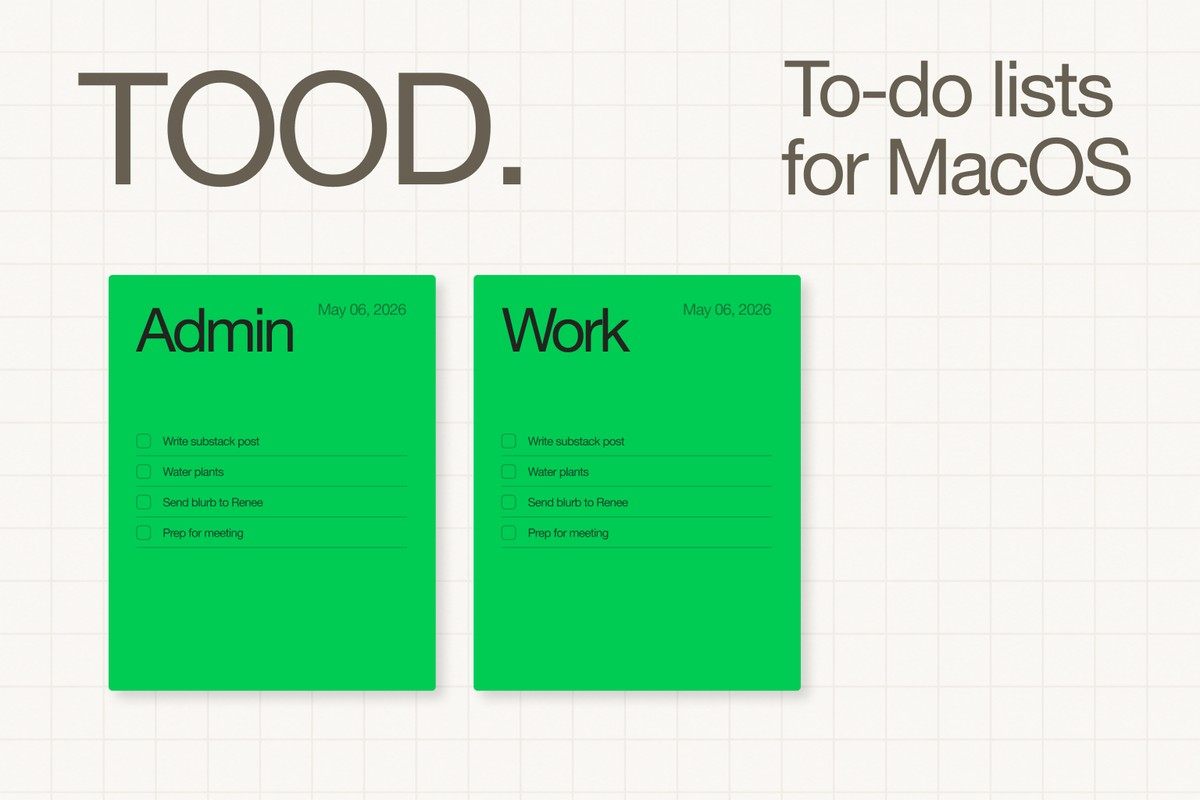
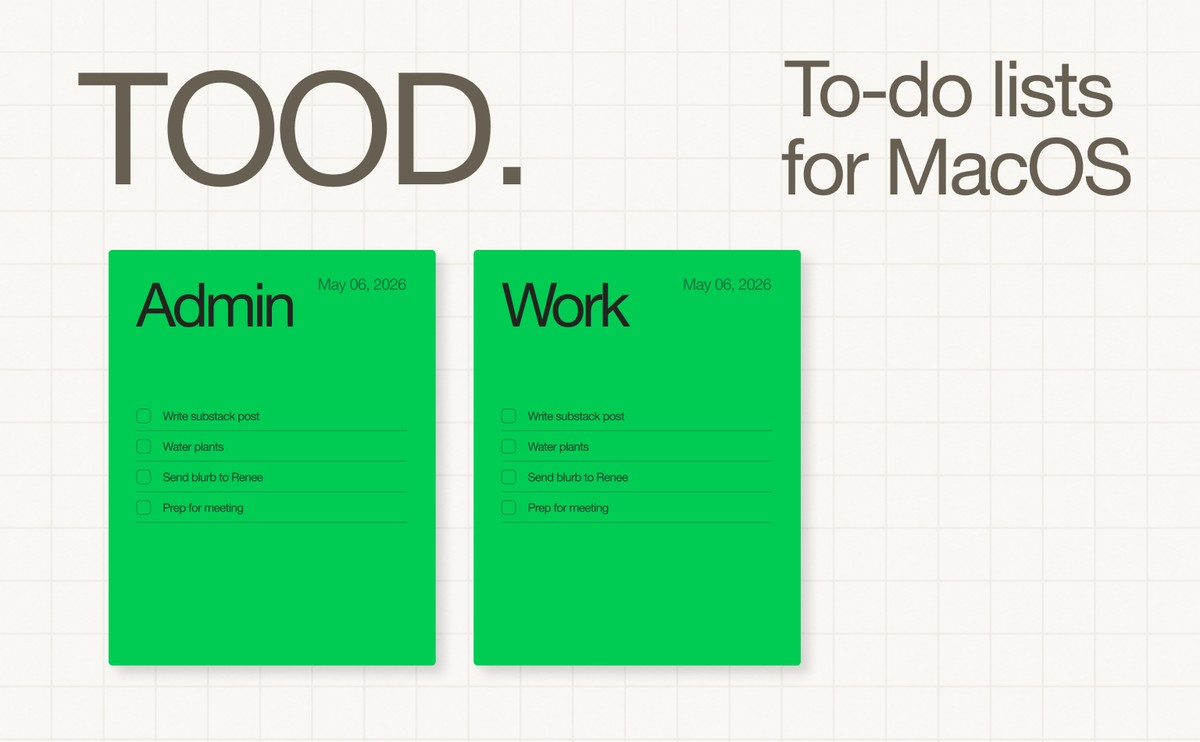
Update OG preview image with refined layout

diff --git a/docs/index.html b/docs/index.html
@@ -11,13 +11,13 @@
 <meta property="og:url" content="https://toodapp.com/">
 <meta property="og:title" content="Tood, a to-do list app for macOS">
 <meta property="og:description" content="Little to-dos that live right on your desktop. Download for free.">
-<meta property="og:image" content="https://toodapp.com/assets/og-image.jpg?v=1">
+<meta property="og:image" content="https://toodapp.com/assets/og-image.jpg?v=2">
 <meta property="og:image:width" content="1200">
-<meta property="og:image:height" content="800">
+<meta property="og:image:height" content="742">
 <meta name="twitter:card" content="summary_large_image">
 <meta name="twitter:title" content="Tood, a to-do list app for macOS">
 <meta name="twitter:description" content="Little to-dos that live right on your desktop. Download for free.">
-<meta name="twitter:image" content="https://toodapp.com/assets/og-image.jpg?v=1">
+<meta name="twitter:image" content="https://toodapp.com/assets/og-image.jpg?v=2">
 <link rel="stylesheet" href="style.css">
 </head>
 <body>
